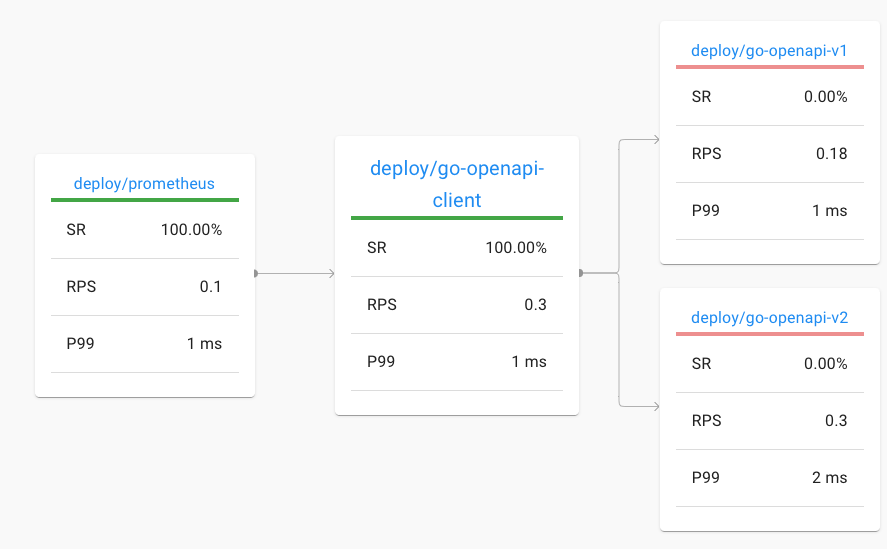
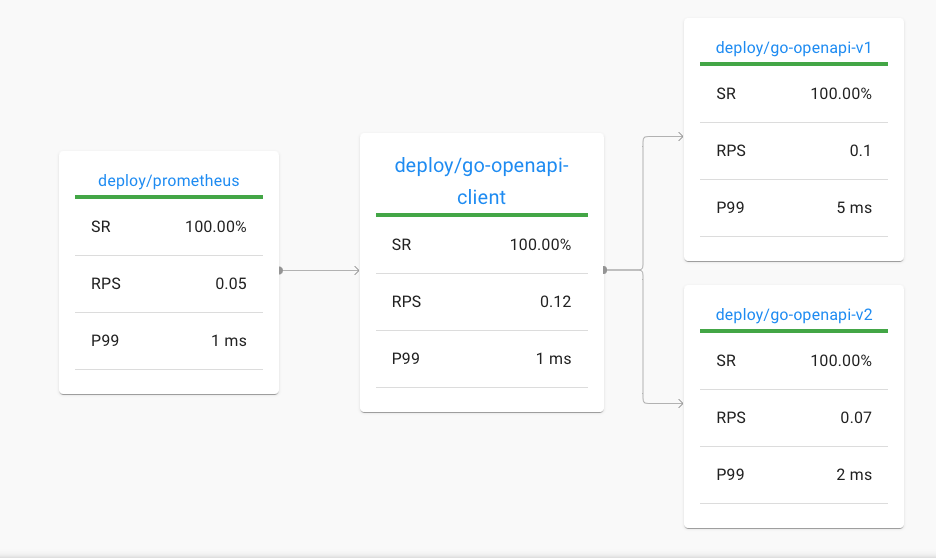
updated docs

diff --git a/README.md b/README.md
@@ -1,17 +1,50 @@
 ## Traffic splitting demo
 
+This demonstrates Linkerd's traffic splitting with real code.
+
+- This code deploys 2 Apps with 1 client
+- `go-open-api-v2` will start rejecting the client creation calls as it has a change in it's spec.
+
 
 ![images](images/splitting.png)
 
 
+### Setup
 
-### Reproduce
+
+- `kind create cluster --image rossgeorgiev/kind-node-arm64:v1.20.0`
+- `linkerd install | kubectl apply -f -`
+- `linkerd viz install | kubectl apply -f -`
+- `kubectl create ns apps`
+- `kubectl annotate ns apps "linkerd.io/inject=enabled"`
+
+```
+cd demo
+./deploy_with_helm.sh
+```
+
+```
+❯ k get pods -n apps
+NAME                                 READY   STATUS    RESTARTS   AGE
+go-openapi-client-668b94dbf4-cwbsp   2/2     Running   0          35s
+go-openapi-v1-549c9cb676-spzsb       2/2     Running   0          35s
+go-openapi-v2-7bb874cf5b-c7mg2       2/2     Running   0          35s
+```
 
 
-kind create cluster --image rossgeorgiev/kind-node-arm64:v1.20.0
-linkerd install | kubectl apply -f -
-linkerd viz install | kubectl apply -f -
+Apply the traffic split `kubectl apply -f demo/traffic-split.yaml`
 
+```
+❯ linkerd -n apps viz routes deploy/go-openapi-v2
+ROUTE             SERVICE   SUCCESS      RPS   LATENCY_P50   LATENCY_P95   LATENCY_P99
+[DEFAULT]   go-openapi-v1   100.00%   0.0rps           1ms           9ms          10ms
+[DEFAULT]   go-openapi-v2         -        -             -             -             -`
+```
+
+
+#### Code differences with go-openapi-v2
+
+The V2 API decided all users need to state their food preferences for the international buffet.
 
 ```
 #go-openapi-v2
@@ -34,33 +67,35 @@ definitions:
         type: "string"
 ```
 
+Let's post to test that new API directly...
+
 ```
 curl -X POST "http://localhost:8080/v2/user" -H  "accept: application/xml" -H  "Content-Type: application/json" -d "{  \"email\": \"string\",  \"firstName\": \"string\",  \"id\": 0,  \"lastName\": \"string\",  \"password\": \"string\",  \"phone\": \"string\",  \"userStatus\": 0,  \"username\": \"alex\"}"
 {"code":602,"message":"foodPreference in body is required"}%
 ```
 
+Bummer!
 
-- `kubectl create ns apps`
-- `kubectl annotate ns apps "linkerd.io/inject=enabled"`
+See that a bunch of stuff is erroring out due to missing field on the User object yay, it works!
 
-
-
-_deploy_
 
 ```
-./deploy_with_helm.sh
-```
-
-```
-❯ k get pods -n apps
-NAME                             READY   STATUS            RESTARTS   AGE
-go-openapi-v1-549c9cb676-vx69x   0/2     PodInitializing   0          17s
-go-openapi-v2-7bb874cf5b-2hppq   0/2     PodInitializing   0          13s
-```
-
-```
-❯ linkerd -n apps viz stat deploy
-NAME            MESHED   SUCCESS      RPS   LATENCY_P50   LATENCY_P95   LATENCY_P99   TCP_CONN
-go-openapi-v1      1/1   100.00%   0.5rps           1ms           1ms           1ms          2
-go-openapi-v2      1/1   100.00%   0.5rps           1ms           1ms           1ms          2
+│ go-openapi-client &{madisonwhite662@example.org Matthew Harris <nil> 0 Wilson Cougarfir +243 56 11472 4389 0 Spiritshell}                                                           │
+│ go-openapi-client Error:  [POST /user][422] createUser default                                                                                                                      │
+│ go-openapi-client &{charlottejones332@example.net Addison Robinson <nil> 0 Thomas Painterrust +371 750 5343 155 2 0 Fishersleet}                                                    │
+│ go-openapi-client Error:  [POST /user][422] createUser default                                                                                                                      │
+│ go-openapi-client &{aidenwilson270@example.net Olivia White <nil> 0 Thompson Whipwheat +241 665 6 0395302 0 Thiefdark}                                                              │
+│ go-openapi-client &{williamgarcia341@example.com Madison Miller <nil> 0 Davis Touchplanet +972 037 3996359 5 0 Tradergravel}                                                        │
+│ go-openapi-client Error:  [POST /user][422] createUser default                                                                                                                      │
+│ go-openapi-client &{madisongarcia667@example.org William Williams <nil> 0 Garcia Binderplume +880 304 77801444 0 Foxrowan}                                                          │
+│ go-openapi-client Error:  [POST /user][422] createUser default                                                                                                                      │
+│ go-openapi-client &{madisonthompson427@example.org Olivia Wilson <nil> 0 Williams Salmonoasis +252 4 1543558433 0 Ladysplit}                                                        │
+│ go-openapi-client Error:  [POST /user][422] createUser default                                                                                                                      │
+│ go-openapi-client &{joshuamiller826@example.com Matthew Miller <nil> 0 White Volescratch +506 201 753 611 52 0 Whipchrome}                                                          │
+│ go-openapi-client Error:  [POST /user][422] createUser default                                                                                                                      │
+│ go-openapi-client &{noahmartin562@example.org James Anderson <nil> 0 Taylor Butterflysugar +45 33 817 26608 55 0 Cowlbrick}                                                         │
+│ go-openapi-client &{addisonbrown520@test.org Avery White <nil> 0 Thomas Napeshadow +33 73 9182632411 0 Servantharvest}                                                              │
+│ go-openapi-client &{aidenwhite622@example.org Natalie Jones <nil> 0 Robinson Pixieglory +993 85 23550 92 3 2 0 Vulturetulip}                                                        │
+│ go-openapi-client &{sofiajones246@example.net Benjamin Thompson <nil> 0 White Slicerweak +963 717 1 6 124055 0 Shirttranslucent}                                                    │
+│ go-openapi-client &{zoeywilson061@example.com Mia Williams <nil> 0 Miller Whaleolive +218 53 81547153 6 0 Princessbog}
 ```
